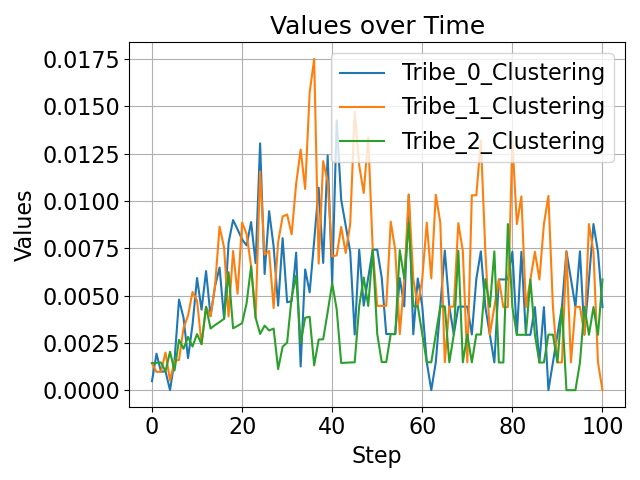
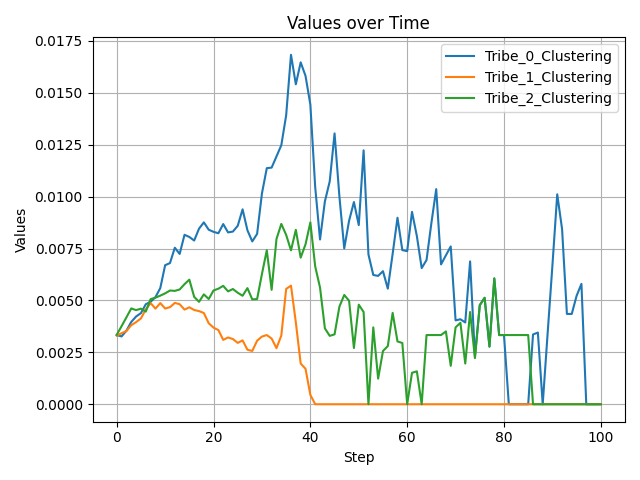
grand merge

diff --git a/scripts/model.py b/scripts/model.py
@@ -56,16 +56,15 @@ class DuneModel(ms.Model):
         self.schedule = ms.time.RandomActivationByType(self)
         self.grid = ms.space.MultiGrid(self.width, self.height, torus=False)
 
-        measures = {
+        self.datacollector = ms.DataCollector({
             "Nomads": lambda m: m.schedule.get_type_count(Nomad),
             "Fights_per_step": lambda m: m.total_fights / m.schedule.time if m.schedule.time > 0 else 0,
             "Cooperation_per_step": lambda m: m.total_cooperation / m.schedule.time if m.schedule.time > 0 else 0,
             **{f"Tribe_{i}_Nomads": (lambda m, i=i: m.count_tribe_nomads(i)) for i in range(self.n_tribes)},
             **{f"Tribe_{i}_Spice": (lambda m, i=i: m.total_spice(i)) for i in range(self.n_tribes)},
             **{f"Tribe_{i}_Clustering": (lambda m, i=i: m.clustering(i)) for i in range(self.n_tribes)},
-            **{f"Tribe_{i}_Trades": (lambda m, i=i: m.trades_per_tribe[i]/ m.schedule.time if m.schedule.time > 0 else 0) for i in range(self.n_tribes)}
+            **{f"Tribe_{i}_Trades": (lambda m, i=i: m.trades_per_tribe[i] / m.schedule.time if m.schedule.time > 0 else 0) for i in range(self.n_tribes)}
         })
-
 
         spice_dist = gen_spice_map(self.width, self.height, self.n_heaps, 1000)
         river = gen_river(self.width, self.height)
@@ -105,31 +104,29 @@ class DuneModel(ms.Model):
 
     def total_spice(self, tribe_id):
         return sum(a.spice for a in self.schedule.agents if isinstance(a, Nomad) and a.tribe.id == tribe_id)
-    
+
     def clustering(self, tribe_id):
         clustering = 0
-        i=0
+        i = 0
         for a in self.schedule.agents:
             if isinstance(a, Nomad) and a.tribe.id == tribe_id:
                 x, y = a.pos
-                neighbors = self.grid.get_neighborhood((x, y), moore=False, include_center=False)
+                neighbors = self.grid.get_neighborhood((x, y), moore=False, include_center=False, radius=self.vision_radius)
                 for pos in neighbors:
                     cellmates = self.grid.get_cell_list_contents([pos])
                     other_nomads = [agent for agent in cellmates if isinstance(agent, Nomad) and agent != a and agent.tribe == a.tribe]
-                    clustering += len(other_nomads)/len(neighbors)
-            i +=1
-        return clustering/i
-        
+                    clustering += len(other_nomads) / len(neighbors)
+            i += 1
+        return clustering / i
 
     def record_trade(self, tribe_id):
-        self.trades_per_tribe[tribe_id] += 1/2
+        self.trades_per_tribe[tribe_id] += 1 / 2
 
-    
     def record_fight(self):
-        self.total_fights += 1/2
-        
+        self.total_fights += 1 / 2
+
     def record_cooperation(self):
-        self.total_cooperation += 1/2
+        self.total_cooperation += 1 / 2
 
     def step(self):
         self.schedule.step()
@@ -139,7 +136,7 @@ class DuneModel(ms.Model):
         self.current_step += 1
         if self.current_step >= self.step_count:
             self.running = False
-            self.save_results(self.experiment_name)  
+            self.save_results(self.experiment_name)
 
     def remove_agent(self, agent):
         self.grid.remove_agent(agent)
@@ -180,8 +177,6 @@ class DuneModel(ms.Model):
         self.save_plot(data, "Fights_per_step", os.path.join(figures_dir, "fights_plot.png"))
         self.save_plot(data, "Cooperation_per_step", os.path.join(figures_dir, "cooperation_plot.png"))
         self.save_plot(data, [f"Tribe_{i}_Trades" for i in range(self.n_tribes)], os.path.join(figures_dir, "trades_plot.png"))
-
-
 
     def save_plot(self, data, columns, filename):
         plt.figure()

diff --git a/scripts/agents.py b/scripts/agents.py
@@ -139,9 +139,9 @@ class Nomad(ms.Agent):
 
             for other in other_nomads:
                 if other.tribe != self.tribe:
-                    fighting_game(self, other, alpha=0.2)
+                    fighting_game(self, other, alpha=0.2, model=self.model)
                 elif other.tribe == self.tribe:
-                    trade(self, agent1=self, agent2=other, trade_percentage=0.5)
+                    trade(agent1=self, agent2=other, trade_percentage=0.5, model=self.model)
 
     # def fight(self):
     #     visible_positions = [i for i in self.model.grid.get_neighborhood(self.pos, False, False, self.vision)]
@@ -164,17 +164,17 @@ class Nomad(ms.Agent):
             self.model.add_agent(self)
 
 
-def trade(self, agent1: Nomad, agent2: Nomad, trade_percentage: float):
+def trade(agent1: Nomad, agent2: Nomad, trade_percentage: float, model: ms.Model):
     trade_amount_self = int(agent1.spice * trade_percentage)
     trade_amount_other = int(agent2.spice * trade_percentage)
 
     agent1.spice = agent1.spice - trade_amount_self + trade_amount_other
     agent2.spice = agent2.spice - trade_amount_other + trade_amount_self
     
-    self.model.record_trade(agent1.tribe.id)
+    model.record_trade(agent1.tribe.id)
 
 
-def fighting_game(self, agent1: Nomad, agent2: Nomad, alpha: float):
+def fighting_game(agent1: Nomad, agent2: Nomad, alpha: float, model: ms.Model):
     if agent1.spice >= agent2.spice:
         weak_agent = agent2
         strong_agent = agent1
@@ -188,7 +188,7 @@ def fighting_game(self, agent1: Nomad, agent2: Nomad, alpha: float):
     elif weak_agent.spice <= alpha * strong_agent.spice:
         strong_agent.spice += 0
         weak_agent.spice -= 0
-        self.model.record_cooperation()
+        model.record_cooperation()
     
 
 
@@ -203,7 +203,7 @@ class Spice(ms.Agent):
         if self.spice == 0:
             self.model.remove_agent(self)
         elif self.spice > 20:
-            self.spice += 1 * np.random.binomial(1, 0.01, 1)[0]
+            self.spice += 1 * np.random.binomial(1, .99, 1)[0]
 
 
 class Water(ms.Agent):

diff --git a/scripts/server.py b/scripts/server.py
@@ -12,7 +12,7 @@ model_params = {
     "width": 100,
     "height": 100,
     "n_tribes": 3,
-    "n_agents": 100,
+    "n_agents": 200,
     "n_heaps": 8,
     "vision_radius": 5,
     "step_count": 100,
